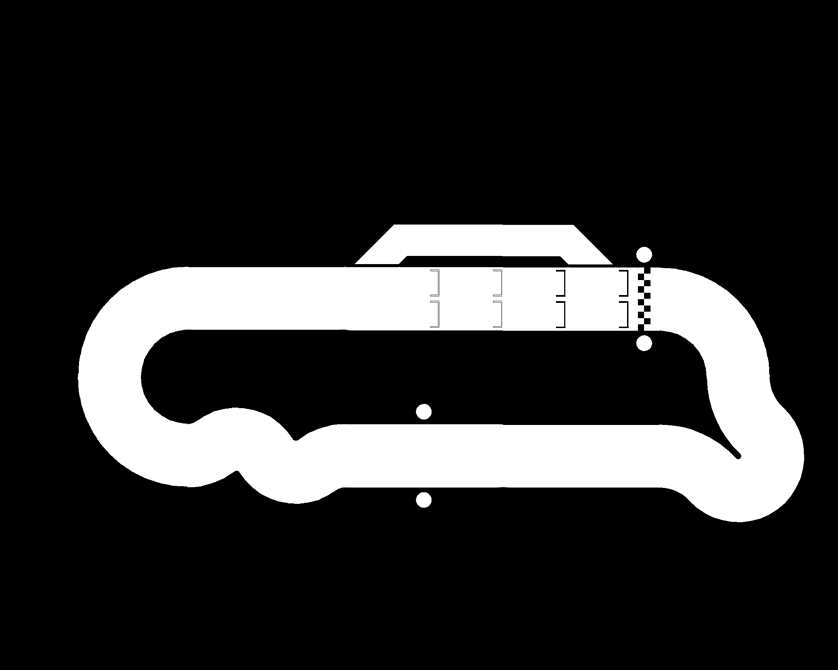
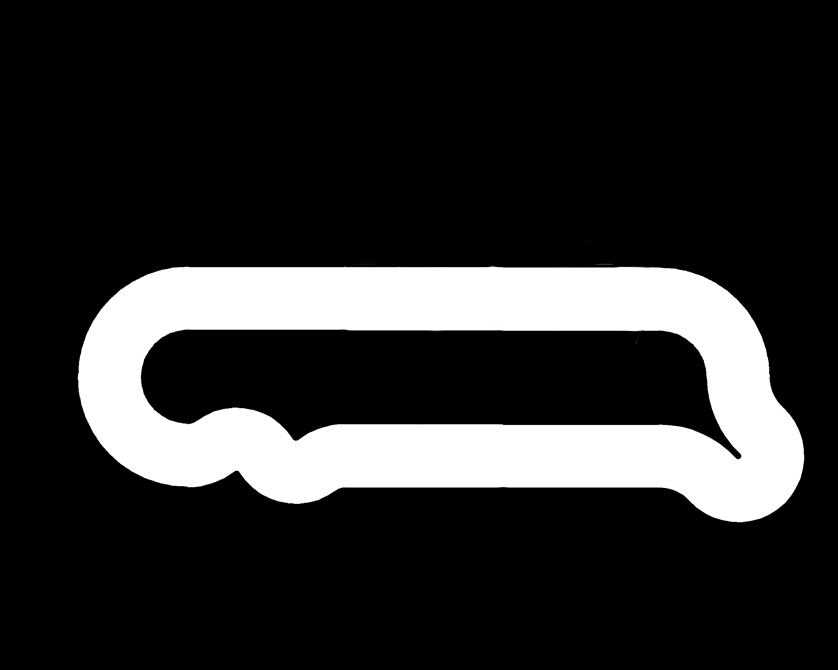
implemented PID added more methods to the simulation class (RoboSim) added a more complicated sample track to test with edited a sample track

diff --git a/src/main.cpp b/src/main.cpp
@@ -38,13 +38,13 @@ int main (void) // int argc, char* argv[]
    /*
 	*  BEGINNING of Setup
 	*/
-  VStream Vs(STILL_IMAGE, "127.0.0.1", "Sample_Pictures/track-example3.png");
+  VStream Vs(STILL_IMAGE, "127.0.0.1", "Sample_Pictures/track-example5.png");
 
   //  Initialise the video device
   Vs.StartInput();
 
   // Initialise Robo Simulation
-  RobotSim Rsim = RobotSim(Point2d(600,300),0,"Robot1",Size(30,15));
+  RobotSim Rsim = RobotSim(Point2d(600,300),0,"Robot1", 2.0,Size(30,15));
 
 
   // Initialise variables
@@ -184,10 +184,11 @@ int main (void) // int argc, char* argv[]
     float avg_error = 0;
 
     // Assign a value to make the circle around the car
-    double circRadius = 50;
+    double circRadius = 60;
+    Rsim.set_searchRadius(circRadius);
 
     // Probably the outside of the track
-    for (int i = 0; i < largest1.size(); i++)
+    for (size_t i = 0; i < largest1.size(); i++)
     {
       // Use pythagoras on the 2 dimensional plane to find the distances
       value = sqrt(
@@ -207,7 +208,7 @@ int main (void) // int argc, char* argv[]
     count = 1;
 
     // Do the same for largest2, the other contour probably the inside of the track
-    for (int i = 0; i < largest2.size(); i++)
+    for (size_t i = 0; i < largest2.size(); i++)
     {
       value = sqrt(
 	  pow((largest2[i].x - carCenter.x), 2)
@@ -223,20 +224,7 @@ int main (void) // int argc, char* argv[]
     pNum2 = count;
 
     // Calculate error from |average1 - average2|
-    avg_error = fabs(average1 - average2);
-    // Proportional
-    float p = avg_error*0.6;
-    error_list.push_back(avg_error);
-    float integrate = 0;
-    if(error_list.size() > 4)
-    {
-      for(int i = 0;i < error_list.size()-1;i++)
-      {
-	integrate += (error_list[i] + error_list[i+1])/2;
-      }
-      cout << "integrate: " << integrate << endl;
-    }
-    float p_i = integrate*0.001 + p;
+    avg_error = (pNum1 - pNum2);
 
     /* Info dump */
     cout <<
@@ -246,38 +234,84 @@ int main (void) // int argc, char* argv[]
 	"Average Inside (2): " << average2 << endl <<
 	"Average Error: " << avg_error << endl <<
 	"Number of Points Outside (1): " << pNum1 << endl <<
-	"number of Points Inside (2): " << pNum2 << endl;
+	"Number of Points Inside (2): " << pNum2 << endl;
+
+    /*
+     *  Beginning of PID Controller
+     *  Code by Michael
+     */
+    // Constants
+    float pConstant = 0.1;
+    float iConstant = 0.0005;
+    float dConstant = 0.1;
+
+    // Number of error values to use in the integration
+    int integrationNum = 10;
+
+    // Proportional
+    float p = avg_error*pConstant;
+
+    // Integral
+    error_list.push_back(avg_error);
+    float integrate = 0;
+    if(error_list.size() > integrationNum)
+    {
+      for(size_t i = error_list.size()-(integrationNum+1); i < error_list.size()-1; i++)
+      {
+	integrate += (error_list[i] + error_list[i+1])/2;
+      }
+      cout << "integrate: " << integrate << endl;
+    }
+    float intgrtr = integrate*iConstant;
+    float p_i = intgrtr + p;
+
+    // Derivative (not a major problem)
+    float errorDifference = error_list[error_list.size()-1] - error_list[error_list.size()-2];
+    float d = errorDifference*dConstant;
+    float p_i_d = p_i + d;
+
+    /*
+     * Simulation Controller (may not work for actual car)
+     * Created by Jonothan Holland
+     * Edited by Michael Ball and Xavier Casley
+     */
+    // Minimum threshold to go straight
+    float straightThreshold = 0.99;
+    float forwardSpeed = 1;
 
 
     // If one average is larger than the other, move towards that edge
-
     // If differences are tiny just go straight
-    if((pNum1 >= .99*pNum2 && pNum1 <= pNum2 ) || (pNum1 >= pNum2 && pNum1 <= .99*pNum2))
+    if((pNum1 >= straightThreshold*pNum2 && pNum1 <= pNum2 ) || (pNum1 >= pNum2 && pNum1 <= straightThreshold*pNum2))
     {
       // Tell the car to go straight
 
-      Rsim.move(2 , 0);// Move the simulation
+      Rsim.move(forwardSpeed , 0);// Move the simulation
+//      Rsim.drive(2 , 0);// Move the simulation
       cout << "Go Straight\n";
+    }
+    else if (pNum2 > pNum1)
+    {
+      // Tell the car to go left
+
+      Rsim.move(forwardSpeed, 4*p_i_d); // Move the simulation
+//      Rsim.drive(2, -4); // Move the simulation
+      cout << "Turning Left\n";
     }
     // Assuming largest2 is the inside track (being smaller than largest 1)
     else if (pNum1 > pNum2)
     {
       // Tell the car to go right
 
-      Rsim.move(2, 4);// Move the simulation
+      Rsim.move(forwardSpeed, 4*p_i_d);// Move the simulation
+//      Rsim.drive(2, 4);// Move the simulation
       cout << "Turning right\n";
-    }
-    else if (pNum2 > pNum1)
-    {
-      // Tell the car to go left
-
-      Rsim.move(2, -4); // Move the simulation
-      cout << "Turning Left\n";
     }
     else {
       cout << "#####\nELSE HAPPENED\n#####" << endl;
+    }
 
-    Rsim.draw(drawing, circRadius);// draw the simulation
+    Rsim.draw(drawing, true);// draw the simulation
 
     // Give information to image:
     stringstream ss1;
@@ -290,6 +324,7 @@ int main (void) // int argc, char* argv[]
     //Draw image
     // draw the simulation
     Rsim.draw(drawing, circRadius);
+    Rsim.showDirection(drawing, pNum1, pNum2);
     imshow("Contours", drawing);
 
     // Wait for 'esc' key press for 30ms.
@@ -307,5 +342,4 @@ int main (void) // int argc, char* argv[]
 
 
 return 0;
-}
 }

diff --git a/src/RobotSim.cpp b/src/RobotSim.cpp
@@ -7,32 +7,35 @@
 
 #include "RobotSim.h"
 
-RobotSim::RobotSim(Point2d Position, float angle, String name, Size R_size, String Repr)
+RobotSim::RobotSim(Point2d Position, float angle, String name, float MAXturningSpeed, Size R_size)
 {
   this->angle = angle;
   this->Position = Position;
   this->R_size = R_size;
+  this->MAXturningSpeed = MAXturningSpeed;
   if(!(name == "")){this->name = name;}
     else {this->name = "Robot_Name";}
-  if(Repr != "")
-  {
-    repr = imread(Repr);
-    if(!repr.empty()){
-//	cv::Rect roi( cv::Point( originX, originY ), cv::Size( width, height ));
-//	cv::Mat destinationROI = bigImage( roi );
-//	smallImage.copyTo( destinationROI );
-    }
-  }
-//  cv::resize(src, src, img.size());
 
-
+  // init other values
+  searchRadius = 0;
+  turningStack = 0;
+  cantakenewAngle = true;
+}
+/*
+ * Makes the search Radius shown by the simulation equal a certain value
+ * This does not change the actual pathing, merely the presentation of said
+ * pathing.
+ */
+void RobotSim::set_searchRadius(int searchRadius)
+{
+  this->searchRadius = searchRadius;
 }
 
   /*
-   * Draws the "robot" as a triangle faceing in the
+   * Draws the "robot" as a triangle facing in the
    * direction it's initialised as.
    */
-void RobotSim::draw(Mat& src, int search_circle)
+void RobotSim::draw(Mat& src, bool draw_searchRadius)
 {
   cv::RotatedRect Rekt = RotatedRect(Position, R_size, angle);
   Point2f vertices[4];
@@ -41,18 +44,68 @@ void RobotSim::draw(Mat& src, int search_circle)
   cv::line(src, vertices[0], Front, Scalar(255,0,0));
   cv::line(src, vertices[1], Front, Scalar(255,0,0));
   cv::line(src, vertices[0], vertices[1], Scalar(255,0,0));
-  circle(src, Position, search_circle, Scalar(0,0,255), 2, 8, 0 );
-//  circle(src, Position, search_circle*0.25, Scalar(0,0,150), 2, 8, 0 );
+  if(draw_searchRadius){
+    circle(src, Position, searchRadius, Scalar(0,0,255), 2, 8, 0 );
+  }
+}
 
+void RobotSim::showDirection(Mat& src, float value1, float value2)
+{
+  float a = (value1 - value2)/(value1);
+  // draw the panel to show that we're turning right
+  cout << "dirction percent hting " << a << endl;
+  // Make the rectangles
+  Point rightPoint1 = Point(src.size().width-30,30);
+  Point rightPoint2 = Point(rightPoint1.x - 40, rightPoint1.y+100);
+  Point leftPoint1 = Point(rightPoint2.x - 10, rightPoint2.y);
+  Point leftPoint2 = Point(leftPoint1.x - 40 , leftPoint1.y-100);
+
+  //only draw certain rectangles
+  if(a < 0){
+    a = abs(a);
+    rectangle(src,rightPoint1, rightPoint2,Scalar(22*a,247*a,229*a), CV_FILLED);
+  } else {
+    rectangle(src,leftPoint1, leftPoint2,Scalar(10*a,124*a,255*a), CV_FILLED);
+  }
 }
 
 /*
  * Moves the Robot a certain distance 'dist' in the direction of angle
- * in respect to it's current anglular direction. *
+ * in respect to its current angular direction.
  */
-void RobotSim::move(int dist, float angle)
+void RobotSim::move(float dist, float angle)
 {
+  History.push_back(Position);
   Position.x += dist * cos((angle+this->angle)* PI_NUM /180);
   Position.y += dist * sin((angle+this->angle)* PI_NUM /180);
   this->angle += angle;
+}
+/*
+ * 'drives' the Robot at a certain speed in a certain direction in respect
+ * to its current angular direction.
+ * Angles will only be played after the previous angle has been turned.
+ */
+void RobotSim::drive(float velocity, float angle, float turningSpeed)
+{
+  // Add the angle to the stack
+  if(cantakenewAngle == true){
+    turningStack = angle;
+    cantakenewAngle = false;
+  } else {
+    cout << "Currently turning, " << turningStack << "degrees remaining\n";
+  }
+
+  // subtract the angle we're turning from the turning stack and then make the turn
+  if(turningStack < 0) {
+    turningStack += turningSpeed;
+  } else if (turningStack > 0) {
+    turningStack -= turningSpeed;
+  }
+  float angle2Turn = turningSpeed;
+  this->move(velocity,angle2Turn);
+
+  if (turningStack <= 2*turningSpeed && turningStack >= -2*turningSpeed){
+    cantakenewAngle = true;
+  }
+
 }

diff --git a/src/RobotSim.h b/src/RobotSim.h
@@ -28,7 +28,11 @@ private:
   vector<Point2d> History;
   Size R_size;
   String name;
-  Mat repr;
+  float MAXturningSpeed;
+  int searchRadius;
+  double turningStack;
+  bool cantakenewAngle;
+
 
 public:
   // Vars
@@ -36,11 +40,14 @@ public:
   float angle;
 
   // constructor
-  RobotSim (Point2d Position, float angle, String name = "", Size R_size = Size(60,35), String Repr = "Sample_Pictures/mach5.png");
+  RobotSim (Point2d Position, float angle, String name = "", float turningSpeed = 2.0, Size R_size = Size(60,35));
 
   // Functions
-  void draw(Mat& src, int search_circle = 0);
-  void move(int dist, float angle);
+  void set_searchRadius(int searchRadius);
+  void draw(Mat& src, bool draw_searchRadius = false);
+  void showDirection(Mat& src, float value1, float value2);
+  void move(float dist, float angle);
+  void drive(float velocity, float angle, float turningSpeed = 0.5);
 };
 
 #endif /* ROBOTSIM_H_ */
